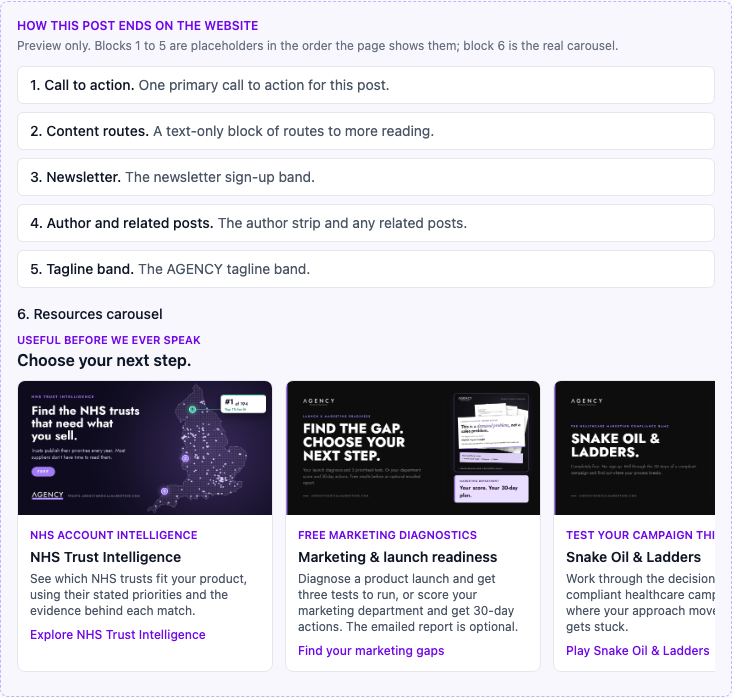
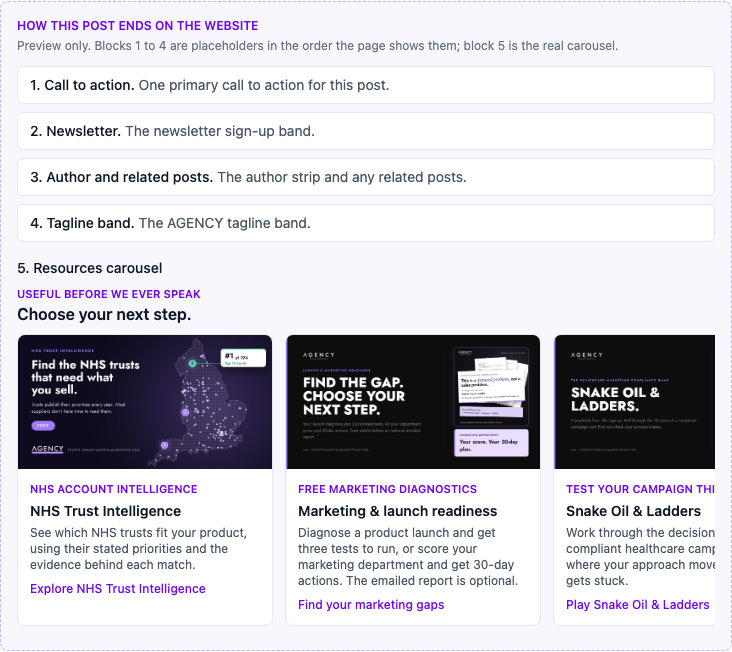
Drop content routes from the blog preview ending
The website is removing the text-only content routes block, so the
preview now runs: call to action, newsletter, author and related posts,
tagline band, then the resources carousel.

diff --git a/src/components/content/BlogEnding.tsx b/src/components/content/BlogEnding.tsx
@@ -2,13 +2,12 @@ import { BLOG_ENDING_RESOURCES } from "./blog-ending-resources";
 
 /**
  * How a blog post ends on the website, in the live page order: primary call
- * to action, content routes, newsletter band, author strip and related posts,
+ * to action, newsletter band, author strip and related posts,
  * tagline band, then the four-card resources carousel. Preview only: items 1
- * to 5 are labelled placeholders, the four cards are the real ones.
+ * to 4 are labelled placeholders, the four cards are the real ones.
  */
 const PLACEHOLDERS = [
   { label: "Call to action", note: "One primary call to action for this post." },
-  { label: "Content routes", note: "A text-only block of routes to more reading." },
   { label: "Newsletter", note: "The newsletter sign-up band." },
   { label: "Author and related posts", note: "The author strip and any related posts." },
   { label: "Tagline band", note: "The AGENCY tagline band." },
@@ -22,7 +21,7 @@ export default function BlogEnding() {
       data-blog-ending
     >
       <p className="text-xs font-semibold uppercase text-violet-700">How this post ends on the website</p>
-      <p className="mt-1 text-xs text-gray-500">Preview only. Blocks 1 to 5 are placeholders in the order the page shows them; block 6 is the real carousel.</p>
+      <p className="mt-1 text-xs text-gray-500">Preview only. Blocks 1 to 4 are placeholders in the order the page shows them; block 5 is the real carousel.</p>
 
       <ol className="mt-3 space-y-2">
         {PLACEHOLDERS.map((p, i) => (
@@ -32,7 +31,7 @@ export default function BlogEnding() {
         ))}
       </ol>
 
-      <p className="mt-4 text-sm font-medium text-gray-900">6. Resources carousel</p>
+      <p className="mt-4 text-sm font-medium text-gray-900">5. Resources carousel</p>
       <p className="mt-2 text-[11px] font-semibold uppercase text-violet-700">Useful before we ever speak</p>
       <p className="text-base font-semibold text-gray-900">Choose your next step.</p>
       <ul className="mt-2 flex snap-x gap-3 overflow-x-auto pb-2" data-blog-ending-tiles>

diff --git a/src/components/content/BlogArticleView.test.ts b/src/components/content/BlogArticleView.test.ts
@@ -23,8 +23,8 @@ describe("blog preview ending", () => {
     }
   });
 
-  it("lists the five placeholders then the carousel, in the live page order", () => {
-    const order = ["1. Call to action.", "2. Content routes.", "3. Newsletter.", "4. Author and related posts.", "5. Tagline band.", "6. Resources carousel", "Useful before we ever speak", "Choose your next step."].map(s => html.indexOf(s));
+  it("lists the four placeholders then the carousel, in the live page order", () => {
+    const order = ["1. Call to action.", "2. Newsletter.", "3. Author and related posts.", "4. Tagline band.", "5. Resources carousel", "Useful before we ever speak", "Choose your next step."].map(s => html.indexOf(s));
     expect(order.every(p => p > 0)).toBe(true);
     expect([...order].sort((a, b) => a - b)).toEqual(order);
     expect(html.indexOf("Choose your next step.")).toBeLessThan(html.indexOf(BLOG_ENDING_RESOURCES[0].cta));
